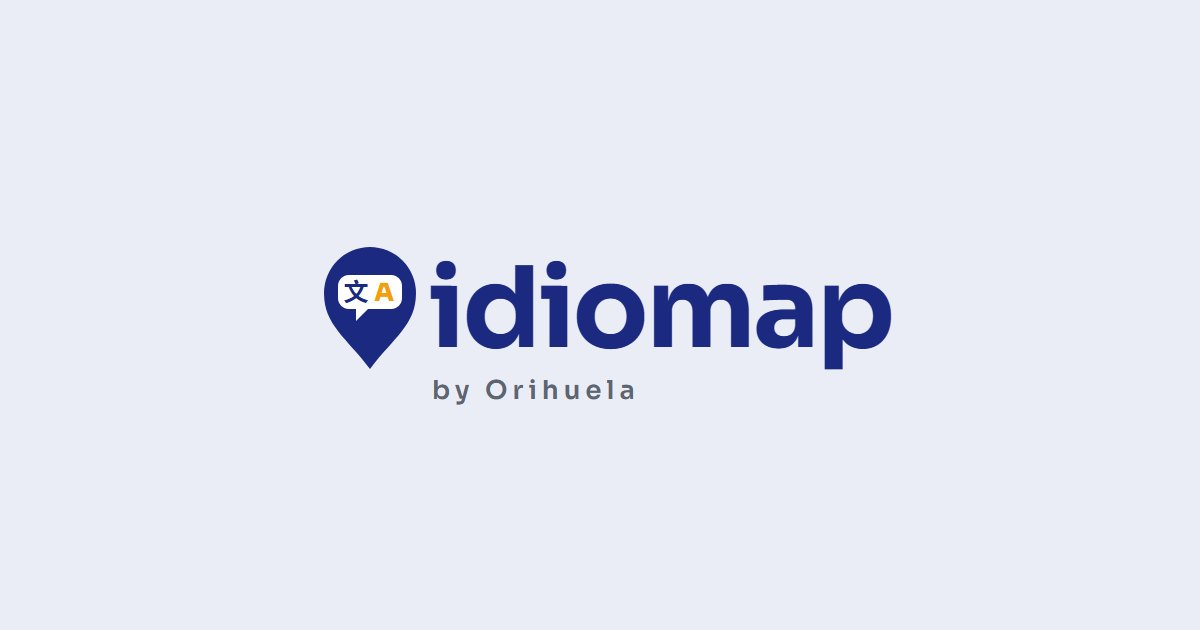
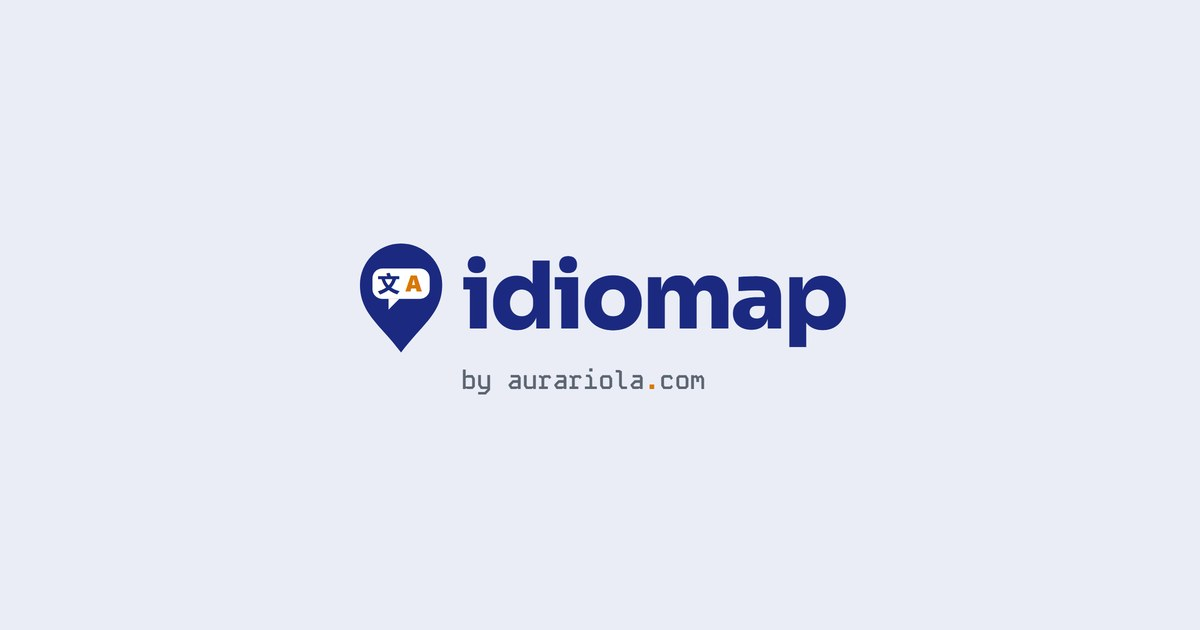
Firma personal: by Orihuela → aurariola.com + fix footer GitHub
- Logo y og-image regenerados: byline "by aurariola.com" (Kode Mono,
  punto en ámbar); pin a la altura de "idiomap", byline alineado a la
  izquierda (bajo la "i").
- Footer (nav.js, index.html, placement.html): "Jesús Orihuela" →
  aurariola.com, con el punto en --clr-accent.
- Fix: icono de GitHub del footer ahora centrado verticalmente
  (inline-flex + svg display:block + reset de margen del <p>).
- service-worker.js: IMG_CACHE v7 → v8 (fuerza logo/og nuevos).
- bump-assets: ?v= re-hasheado en los HTML.

Changed region(s): [[0.2467, 0.3619, 0.74, 0.6333]]

diff --git a/index.html b/index.html
@@ -33,7 +33,7 @@
     <link rel="preload" as="style" href="https://fonts.googleapis.com/css2?family=Raleway:ital,wght@0,400;0,500;0,600;0,700;0,800;0,900;1,400&display=optional">
     <link rel="stylesheet" href="https://fonts.googleapis.com/css2?family=Raleway:ital,wght@0,400;0,500;0,600;0,700;0,800;0,900;1,400&display=optional" media="print" onload="this.media='all'">
     <noscript><link rel="stylesheet" href="https://fonts.googleapis.com/css2?family=Raleway:ital,wght@0,400;0,500;0,600;0,700;0,800;0,900;1,400&display=optional"></noscript>
-    <link rel="stylesheet" href="index/css/generalities.css?v=09be2ab8">
+    <link rel="stylesheet" href="index/css/generalities.css?v=f2ec31b3">
     <link rel="stylesheet" href="index/css/index.css?v=639d0243">
     <!-- LCP image on the landing hero — fetch it early and at high priority so mobile
          (Slow 4G) discovers it before scripts instead of after CSS+parse. -->
@@ -632,7 +632,7 @@
           if (fp && typeof AppLang !== 'undefined') {
             var dev = AppLang.t('footer_developed_by');
             if (dev !== 'footer_developed_by') {
-              fp.innerHTML = '© <span id="footer-year">' + new Date().getFullYear() + '</span> ' + dev + ' Jesús Orihuela';
+              fp.innerHTML = '© <span id="footer-year">' + new Date().getFullYear() + '</span> ' + dev + ' aurariola<span style="color:var(--clr-accent)">.</span>com';
             }
           }
         }

diff --git a/placement/html/placement.html b/placement/html/placement.html
@@ -16,7 +16,7 @@
     <link rel="preconnect" href="https://fonts.googleapis.com">
     <link rel="preconnect" href="https://fonts.gstatic.com" crossorigin>
     <link href="https://fonts.googleapis.com/css2?family=Raleway:wght@400;500;600;700;800;900&display=swap" rel="stylesheet">
-    <link rel="stylesheet" href="../../index/css/generalities.css?v=09be2ab8">
+    <link rel="stylesheet" href="../../index/css/generalities.css?v=f2ec31b3">
     <link rel="stylesheet" href="../css/placement.css?v=909016cf">
     <link rel="icon" href="../../index/img/ico/favicon.ico">
     <meta name="theme-color" content="#2563EB">
@@ -117,7 +117,7 @@
         if (fp && typeof AppLang !== 'undefined') {
           var dev = AppLang.t('footer_developed_by');
           if (dev !== 'footer_developed_by') {
-            fp.innerHTML = '© <span id="footer-year">' + new Date().getFullYear() + '</span> ' + dev + ' Jesús Orihuela';
+            fp.innerHTML = '© <span id="footer-year">' + new Date().getFullYear() + '</span> ' + dev + ' aurariola<span style="color:var(--clr-accent)">.</span>com';
           }
         }
       })();

diff --git a/translation/html/translation.html b/translation/html/translation.html
@@ -16,7 +16,7 @@
     <link rel="preconnect" href="https://fonts.googleapis.com">
     <link rel="preconnect" href="https://fonts.gstatic.com" crossorigin>
     <link href="https://fonts.googleapis.com/css2?family=Raleway:ital,wght@0,400;0,500;0,600;0,700;0,800;0,900&display=swap" rel="stylesheet">
-    <link rel="stylesheet" href="../../index/css/generalities.css?v=09be2ab8">
+    <link rel="stylesheet" href="../../index/css/generalities.css?v=f2ec31b3">
     <link rel="stylesheet" href="../css/translation.css?v=ed860652">
     <style>:root { --activity-clr: #10B981; --activity-clr-light: #D1FAE5; }</style>
     <link rel="icon" href="../../index/img/ico/favicon.ico">
@@ -178,7 +178,7 @@
     <script src="../../shared/js/network-status.js?v=b94cd881"></script>
     <script src="../../shared/js/theme.js?v=362c3938"></script>
     <script src="../../shared/js/milestones.js?v=cd178b62"></script>
-    <script src="../../shared/js/nav.js?v=11f29430"></script>
+    <script src="../../shared/js/nav.js?v=75da9ad0"></script>
     <script src="../../shared/js/sw-register.js?v=e2653dc4"></script>
 </body>
 

diff --git a/vocabulary/html/vocabulary.html b/vocabulary/html/vocabulary.html
@@ -16,7 +16,7 @@
     <link rel="preconnect" href="https://fonts.googleapis.com">
     <link rel="preconnect" href="https://fonts.gstatic.com" crossorigin>
     <link href="https://fonts.googleapis.com/css2?family=Raleway:ital,wght@0,400;0,500;0,600;0,700;0,800;0,900&display=swap" rel="stylesheet">
-    <link rel="stylesheet" href="../../index/css/generalities.css?v=09be2ab8">
+    <link rel="stylesheet" href="../../index/css/generalities.css?v=f2ec31b3">
     <link rel="stylesheet" href="../css/vocabulary.css?v=b4eb6626">
     <style>:root { --activity-clr: #0EA5E9; --activity-clr-light: #E0F2FE; }</style>
     <link rel="icon" href="../../index/img/ico/favicon.ico">
@@ -173,7 +173,7 @@
     <script src="../../shared/js/network-status.js?v=b94cd881"></script>
     <script src="../../shared/js/theme.js?v=362c3938"></script>
     <script src="../../shared/js/milestones.js?v=cd178b62"></script>
-    <script src="../../shared/js/nav.js?v=11f29430"></script>
+    <script src="../../shared/js/nav.js?v=75da9ad0"></script>
     <script src="../../shared/js/sw-register.js?v=e2653dc4"></script>
 </body>
 

diff --git a/dictation/html/dictation.html b/dictation/html/dictation.html
@@ -16,7 +16,7 @@
     <link rel="preconnect" href="https://fonts.googleapis.com">
     <link rel="preconnect" href="https://fonts.gstatic.com" crossorigin>
     <link href="https://fonts.googleapis.com/css2?family=Raleway:ital,wght@0,400;0,500;0,600;0,700;0,800;0,900&display=swap" rel="stylesheet">
-    <link rel="stylesheet" href="../../index/css/generalities.css?v=09be2ab8">
+    <link rel="stylesheet" href="../../index/css/generalities.css?v=f2ec31b3">
     <link rel="stylesheet" href="../css/dictation.css?v=8438c1d3">
     <style>:root { --activity-clr: #2563EB; --activity-clr-light: #DBEAFE; }</style>
     <link rel="icon" href="../../index/img/ico/favicon.ico">
@@ -168,7 +168,7 @@
     <script src="../../shared/js/network-status.js?v=b94cd881"></script>
     <script src="../../shared/js/theme.js?v=362c3938"></script>
     <script src="../../shared/js/milestones.js?v=cd178b62"></script>
-    <script src="../../shared/js/nav.js?v=11f29430"></script>
+    <script src="../../shared/js/nav.js?v=75da9ad0"></script>
     <script src="../../shared/js/sw-register.js?v=e2653dc4"></script>
 </body>
 

diff --git a/scramble/html/scramble.html b/scramble/html/scramble.html
@@ -16,7 +16,7 @@
     <link rel="preconnect" href="https://fonts.googleapis.com">
     <link rel="preconnect" href="https://fonts.gstatic.com" crossorigin>
     <link href="https://fonts.googleapis.com/css2?family=Raleway:ital,wght@0,400;0,500;0,600;0,700;0,800;0,900&display=swap" rel="stylesheet">
-    <link rel="stylesheet" href="../../index/css/generalities.css?v=09be2ab8">
+    <link rel="stylesheet" href="../../index/css/generalities.css?v=f2ec31b3">
     <link rel="stylesheet" href="../css/scramble.css?v=5620d18c">
     <style>:root { --activity-clr: #EC4899; --activity-clr-light: #FCE7F3; }</style>
     <link rel="icon" href="../../index/img/ico/favicon.ico">
@@ -175,7 +175,7 @@
     <script src="../../shared/js/network-status.js?v=b94cd881"></script>
     <script src="../../shared/js/theme.js?v=362c3938"></script>
     <script src="../../shared/js/milestones.js?v=cd178b62"></script>
-    <script src="../../shared/js/nav.js?v=11f29430"></script>
+    <script src="../../shared/js/nav.js?v=75da9ad0"></script>
     <script src="../../shared/js/sw-register.js?v=e2653dc4"></script>
 </body>
 

diff --git a/speaking/html/speaking.html b/speaking/html/speaking.html
@@ -16,7 +16,7 @@
     <link rel="preconnect" href="https://fonts.googleapis.com">
     <link rel="preconnect" href="https://fonts.gstatic.com" crossorigin>
     <link href="https://fonts.googleapis.com/css2?family=Raleway:ital,wght@0,400;0,500;0,600;0,700;0,800;0,900&display=swap" rel="stylesheet">
-    <link rel="stylesheet" href="../../index/css/generalities.css?v=09be2ab8">
+    <link rel="stylesheet" href="../../index/css/generalities.css?v=f2ec31b3">
     <link rel="stylesheet" href="../css/speaking.css?v=49437e77">
     <style>:root { --activity-clr: #6366F1; --activity-clr-light: #EEF2FF; }</style>
     <link rel="icon" href="../../index/img/ico/favicon.ico">
@@ -178,7 +178,7 @@
     <script src="../../shared/js/network-status.js?v=b94cd881"></script>
     <script src="../../shared/js/theme.js?v=362c3938"></script>
     <script src="../../shared/js/milestones.js?v=cd178b62"></script>
-    <script src="../../shared/js/nav.js?v=11f29430"></script>
+    <script src="../../shared/js/nav.js?v=75da9ad0"></script>
     <script src="../../shared/js/sw-register.js?v=e2653dc4"></script>
 </body>
 

diff --git a/cloze/html/cloze.html b/cloze/html/cloze.html
@@ -16,7 +16,7 @@
     <link rel="preconnect" href="https://fonts.googleapis.com">
     <link rel="preconnect" href="https://fonts.gstatic.com" crossorigin>
     <link href="https://fonts.googleapis.com/css2?family=Raleway:ital,wght@0,400;0,500;0,600;0,700;0,800;0,900&display=swap" rel="stylesheet">
-    <link rel="stylesheet" href="../../index/css/generalities.css?v=09be2ab8">
+    <link rel="stylesheet" href="../../index/css/generalities.css?v=f2ec31b3">
     <link rel="stylesheet" href="../css/cloze.css?v=861f1e20">
     <style>:root { --activity-clr: #F59E0B; --activity-clr-light: #FEF3C7; }</style>
     <link rel="icon" href="../../index/img/ico/favicon.ico">
@@ -169,7 +169,7 @@
     <script src="../../shared/js/network-status.js?v=b94cd881"></script>
     <script src="../../shared/js/theme.js?v=362c3938"></script>
     <script src="../../shared/js/milestones.js?v=cd178b62"></script>
-    <script src="../../shared/js/nav.js?v=11f29430"></script>
+    <script src="../../shared/js/nav.js?v=75da9ad0"></script>
     <script src="../../shared/js/sw-register.js?v=e2653dc4"></script>
 </body>
 

diff --git a/quiz/html/quiz.html b/quiz/html/quiz.html
@@ -16,7 +16,7 @@
     <link rel="preconnect" href="https://fonts.googleapis.com">
     <link rel="preconnect" href="https://fonts.gstatic.com" crossorigin>
     <link href="https://fonts.googleapis.com/css2?family=Raleway:ital,wght@0,400;0,500;0,600;0,700;0,800;0,900&display=swap" rel="stylesheet">
-    <link rel="stylesheet" href="../../index/css/generalities.css?v=09be2ab8">
+    <link rel="stylesheet" href="../../index/css/generalities.css?v=f2ec31b3">
     <link rel="stylesheet" href="../css/quiz.css?v=f86a954c">
     <style>:root { --activity-clr: #7C3AED; --activity-clr-light: #EDE9FE; }</style>
     <link rel="icon" href="../../index/img/ico/favicon.ico">
@@ -149,7 +149,7 @@
     <script src="../../shared/js/network-status.js?v=b94cd881"></script>
     <script src="../../shared/js/theme.js?v=362c3938"></script>
     <script src="../../shared/js/milestones.js?v=cd178b62"></script>
-    <script src="../../shared/js/nav.js?v=11f29430"></script>
+    <script src="../../shared/js/nav.js?v=75da9ad0"></script>
     <script src="../../shared/js/sw-register.js?v=e2653dc4"></script>
 </body>
 

diff --git a/grammar/html/grammar.html b/grammar/html/grammar.html
@@ -16,7 +16,7 @@
     <link rel="preconnect" href="https://fonts.googleapis.com">
     <link rel="preconnect" href="https://fonts.gstatic.com" crossorigin>
     <link href="https://fonts.googleapis.com/css2?family=Raleway:ital,wght@0,400;0,500;0,600;0,700;0,800;0,900&display=swap" rel="stylesheet">
-    <link rel="stylesheet" href="../../index/css/generalities.css?v=09be2ab8">
+    <link rel="stylesheet" href="../../index/css/generalities.css?v=f2ec31b3">
     <link rel="stylesheet" href="../css/grammar.css?v=dfd05ec0">
     <style>:root { --activity-clr: #7C3AED; --activity-clr-light: #EDE9FE; }</style>
     <link rel="icon" href="../../index/img/ico/favicon.ico">
@@ -253,7 +253,7 @@
     <script src="../../shared/js/path-session.js?v=678a282f"></script>
     <script src="../js/grammar.js?v=bd8848e6"></script>
     <script src="../../shared/js/milestones.js?v=cd178b62"></script>
-    <script src="../../shared/js/nav.js?v=11f29430"></script>
+    <script src="../../shared/js/nav.js?v=75da9ad0"></script>
     <script src="../../shared/js/sw-register.js?v=e2653dc4"></script>
 </body>
 

diff --git a/progress/html/progress.html b/progress/html/progress.html
@@ -16,7 +16,7 @@
     <link rel="preconnect" href="https://fonts.googleapis.com">
     <link rel="preconnect" href="https://fonts.gstatic.com" crossorigin>
     <link href="https://fonts.googleapis.com/css2?family=Raleway:ital,wght@0,400;0,500;0,600;0,700;0,800;0,900&display=swap" rel="stylesheet">
-    <link rel="stylesheet" href="../../index/css/generalities.css?v=09be2ab8">
+    <link rel="stylesheet" href="../../index/css/generalities.css?v=f2ec31b3">
     <link rel="stylesheet" href="../css/progress.css?v=f15f52bf">
     <link rel="icon" href="../../index/img/ico/favicon.ico">
     <link rel="manifest" href="../../manifest.json">
@@ -200,7 +200,7 @@
     <script src="../../shared/js/network-status.js?v=b94cd881"></script>
     <script src="../../shared/js/theme.js?v=362c3938"></script>
     <script src="../../shared/js/milestones.js?v=cd178b62"></script>
-    <script src="../../shared/js/nav.js?v=11f29430"></script>
+    <script src="../../shared/js/nav.js?v=75da9ad0"></script>
     <script src="../../shared/js/sw-register.js?v=e2653dc4"></script>
 </body>
 

diff --git a/my-learning/html/my-learning.html b/my-learning/html/my-learning.html
@@ -12,7 +12,7 @@
     <link rel="preconnect" href="https://fonts.googleapis.com">
     <link rel="preconnect" href="https://fonts.gstatic.com" crossorigin>
     <link href="https://fonts.googleapis.com/css2?family=Raleway:ital,wght@0,400;0,500;0,600;0,700;0,800;0,900&display=swap" rel="stylesheet">
-    <link rel="stylesheet" href="../../index/css/generalities.css?v=09be2ab8">
+    <link rel="stylesheet" href="../../index/css/generalities.css?v=f2ec31b3">
     <link rel="stylesheet" href="../css/my-learning.css?v=4e310a8e">
     <link rel="icon" href="../../index/img/ico/favicon.ico">
     <link rel="manifest" href="../../manifest.json">
@@ -105,7 +105,7 @@
     <script src="../../shared/js/network-status.js?v=b94cd881"></script>
     <script src="../../shared/js/theme.js?v=362c3938"></script>
     <script src="../js/my-learning.js?v=c0601aab"></script>
-    <script src="../../shared/js/nav.js?v=11f29430"></script>
+    <script src="../../shared/js/nav.js?v=75da9ad0"></script>
     <script src="../../shared/js/sw-register.js?v=e2653dc4"></script>
 </body>
 
